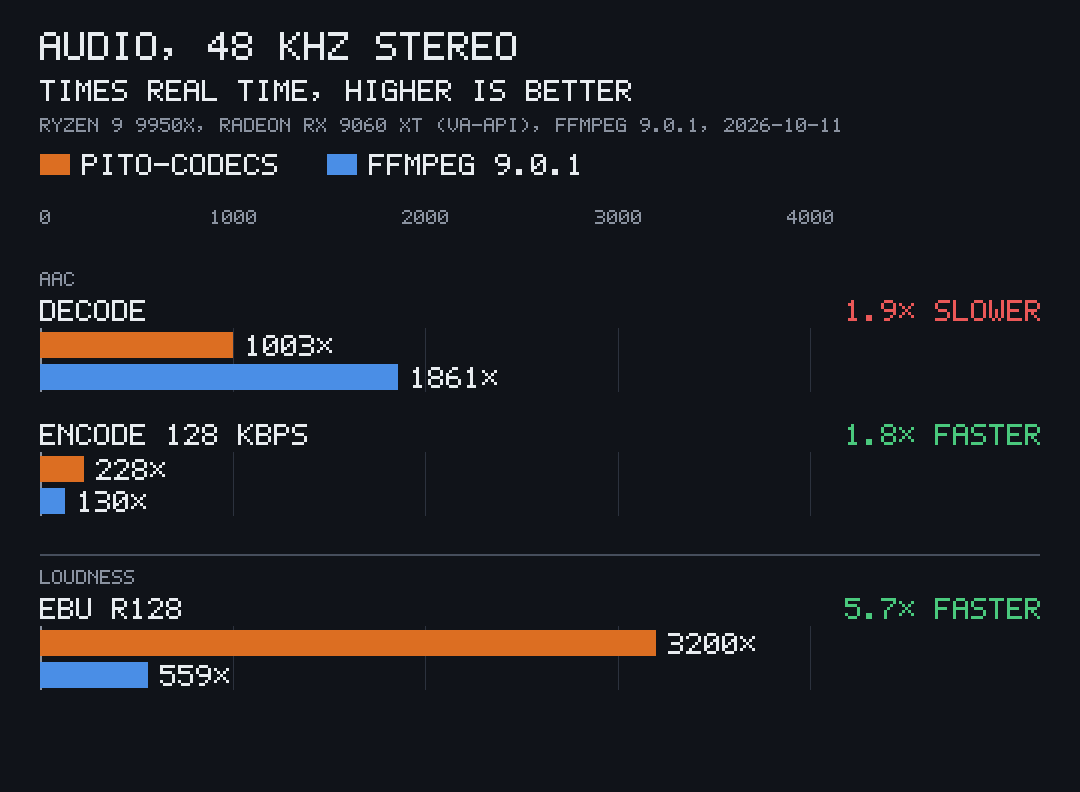
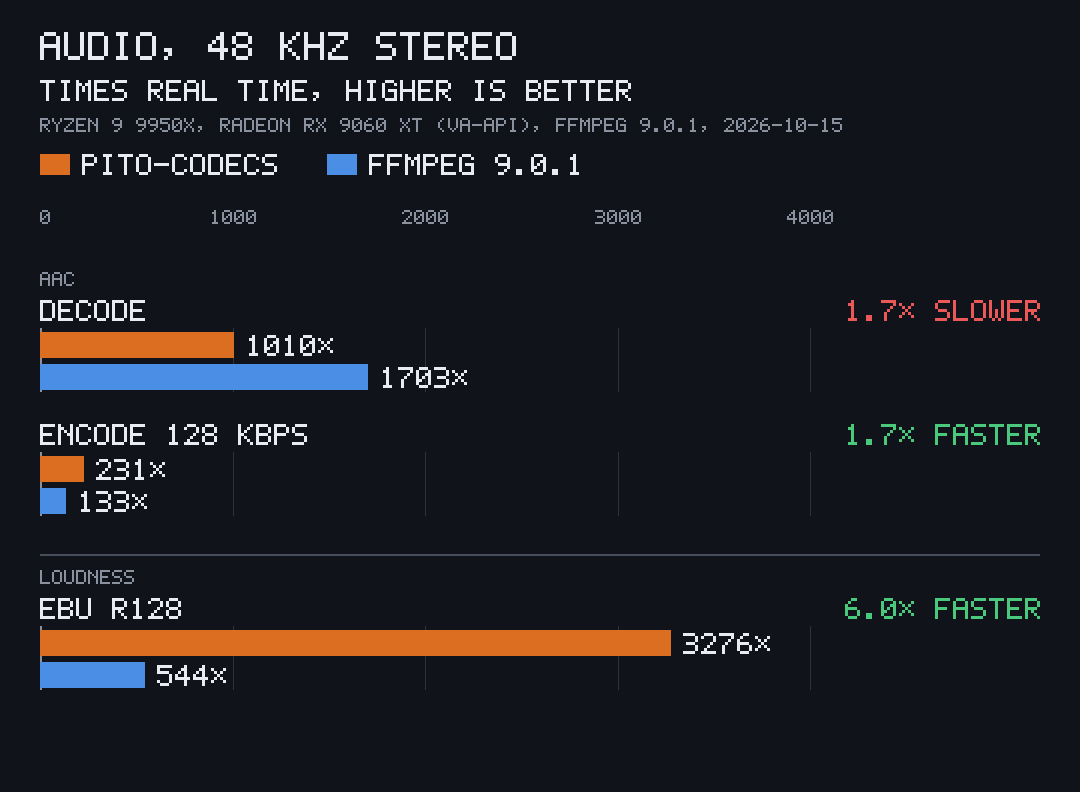
README: speed numbers from the 2026-10-15 run at 743f2d0

diff --git a/README.md b/README.md
@@ -6,10 +6,10 @@
 
 **Video and audio codecs in pure Rust, on the CPU and the GPU, with no ffmpeg inside.** H.264, H.265, VP9, AAC, AC-3, E-AC-3, Opus and MP3; MP4, MOV, MKV and WebM; GIF and WebP. One MIT Cargo package, a feature per part, two direct dependencies and no C linked.
 
-- **First frame 7× to 21× faster than ffmpeg:** 4.1 ms against 87.4 ms for a 1440p H.264 file on the CPU.
-- **Filmstrips 8× to 12× faster:** 12 stills at 240 px in 29 to 72 ms.
-- **Frame-accurate smart cuts 1.7× to 2.9× faster** than an ffmpeg re-encode: only the frames around each cut are encoded.
-- **GPU decode and encode on VA-API 1.1× to 1.3× faster** than ffmpeg's, and frames can stay on the card from decode to encode.
+- **First frame 12× to 28× faster than ffmpeg:** 4.2 ms against 85.2 ms for a 1440p H.264 file on the CPU.
+- **Filmstrips 9× to 11× faster:** 12 stills at 240 px in 24 to 36 ms.
+- **Frame-accurate smart cuts 1.7× to 2.0× faster** than an ffmpeg re-encode: only the frames around each cut are encoded.
+- **GPU decode and encode on VA-API 1.1× to 1.2× faster** than ffmpeg's, and frames can stay on the card from decode to encode.
 - **Overlays composed on the card:** a marked or captioned export uses 18× to 23× less CPU time than decoding and blending on the CPU.
 - **Small:** a 5.7 MB command line, and a library that pulls in 8 crates on Linux.
 
@@ -77,7 +77,7 @@ The GPU route needs nothing extra: libva is loaded at run time on Linux (Mesa's 
 
 ### Instant first frame
 
-Opening a file and showing its first picture takes 4.1 ms for 1440p H.264 on the CPU and 12.4 ms for HEVC on the GPU. That is 7.4× to 21.5× sooner than ffmpeg, whose time includes starting its process, which is what an app calling it pays.
+Opening a file and showing its first picture takes 4.2 ms for 1440p H.264 on the CPU and 3.2 ms for HEVC on the GPU. That is 12.1× to 28.2× sooner than ffmpeg, whose time includes starting its process, which is what an app calling it pays.
 
 ![Time to first frame at 1440p, pito-codecs against ffmpeg](docs/images/chart-first-frame.png)
 
@@ -97,23 +97,23 @@ H.264 (Baseline, Main and High), H.265 (Main and Main 10, tiles and WPP) and VP9
 
 ![GPU decode through VA-API, pito-codecs against ffmpeg](docs/images/chart-decode-gpu.png)
 
-On the CPU, ffmpeg's hand-written assembly still decodes H.264 1.3× to 1.5× faster; HEVC is level on one thread:
+On the CPU, ffmpeg's hand-written assembly still decodes H.264 1.3× to 1.5× faster; HEVC is level to 1.1× faster on one thread:
 
 ![CPU decode, pito-codecs against ffmpeg](docs/images/chart-decode-cpu.png)
 
 ### Encode and transcode on the GPU
 
-H.264 and H.265 encode through VA-API, VideoToolbox and NVENC, and a transcode keeps every frame on the GPU from decode to encode. Our VA-API encodes run 1.1× to 1.3× faster than ffmpeg's at the same settings.
+H.264 and H.265 encode through VA-API, VideoToolbox and NVENC, and a transcode keeps every frame on the GPU from decode to encode. Our VA-API encodes run 1.1× to 1.2× faster than ffmpeg's at the same settings.
 
 ![GPU encode and transcode through VA-API, pito-codecs against ffmpeg](docs/images/chart-encode-gpu.png)
 
-The CPU H.264 encoder (CABAC, B-frames, CRF, QP, CBR and VBR) has no hand-written SIMD, and libx264 is 1.5× to 3.4× faster. H.265 encodes on the GPU only, and without a GPU HEVC encoder the front falls back to H.264 and says why.
+The CPU H.264 encoder (CABAC, B-frames, CRF, QP, CBR and VBR) has no hand-written SIMD, and libx264 is 1.2× to 3.1× faster. H.265 encodes on the GPU only, and without a GPU HEVC encoder the front falls back to H.264 and says why.
 
 ![CPU H.264 encode against libx264](docs/images/chart-encode-cpu.png)
 
 ### Smart-cut export
 
-`export` and `export_with_audio` write an edit from pieces of one or more files. They copy the middle of each piece as it is and re-encode only the frames around each cut, so the result is frame-accurate and 1.7× to 2.9× faster than ffmpeg re-encoding every frame. ffmpeg's stream copy is faster still, but it encodes nothing and can only cut on keyframes.
+`export` and `export_with_audio` write an edit from pieces of one or more files. They copy the middle of each piece as it is and re-encode only the frames around each cut, so the result is frame-accurate and 1.7× to 2.0× faster than ffmpeg re-encoding every frame. ffmpeg's stream copy is faster still, but it encodes nothing and can only cut on keyframes.
 
 ![Smart-cut export in times real time](docs/images/chart-export.png)
 
@@ -152,7 +152,7 @@ GIF (Oklab palettes, ordered or Floyd-Steinberg dither, frame differencing) and 
 
 ### Scale and filters
 
-Scaling (bilinear, bicubic, Lanczos) runs 1.7× to 2.6× faster than ffmpeg's swscale on all threads. Colour (BT.601, 709 and 2020), rotate, flip, crop, pad, frame-rate change, overlays, resampling, downmix, gain, loudness and a limiter sit between decode and encode.
+Scaling (bilinear, bicubic, Lanczos) runs 1.6× to 2.1× faster than ffmpeg's swscale on all threads. Colour (BT.601, 709 and 2020), rotate, flip, crop, pad, frame-rate change, overlays, resampling, downmix, gain, loudness and a limiter sit between decode and encode.
 
 ![Scaling in frames per second, pito-codecs against ffmpeg](docs/images/chart-scale.png)
 
@@ -283,7 +283,7 @@ blender.draw(&mut frame, &watermark);
 
 ## How it was measured
 
-**Against ffmpeg** (the overview and the first-frame, filmstrip, decode, encode, export, scale and audio charts): one run of `examples/bench.rs` on 2026-10-11 at commit `415391d`, each job back to back with the system ffmpeg on the same file, on an AMD Ryzen 9 9950X (16 cores) and an AMD Radeon RX 9060 XT on Mesa 26.2 radeonsi through VA-API, Linux, ffmpeg 9.0.1. The input is 20 s of NASA's public-domain "A Message of Resilience from the International Space Station" (720p60), scaled to 1080p and 1440p and encoded with libx264 at CRF 20 and libx265 at CRF 23; the audio is NASA's public-domain solstice interview. The command is `pgpu run -- cargo run --release --example bench -- --runs 1`, which writes `tmp/bench/results.json`. The machine was shared with other work (load average 4.5 at the start, up to 18 during the run), so the absolute numbers are floors; 17 rows another GPU job disturbed were measured again right after with `--only` into the same file.
+**Against ffmpeg** (the overview and the first-frame, filmstrip, decode, encode, export, scale and audio charts): one run of `examples/bench.rs` on 2026-10-15 at commit `743f2d0`, each job back to back with the system ffmpeg on the same file, on an AMD Ryzen 9 9950X (16 cores) and an AMD Radeon RX 9060 XT on Mesa 26.2.2 radeonsi through VA-API, Linux, ffmpeg 9.0.1. The input is 20 s of NASA's public-domain "A Message of Resilience from the International Space Station" (720p60), scaled to 1080p and 1440p and encoded with libx264 at CRF 20 and libx265 at CRF 23; the audio is NASA's public-domain solstice interview. The command is `pgpu run --class bench --as pito-codecs -- target/release/examples/bench --runs 1`, built first with `cargo build --release --example bench`, and it writes `tmp/bench/results.json`. The card was the bench's alone and the load average was 1.4 at the start and 7.1 at the end, on 32 threads.
 
 **Today's additions** (the overlay charts, the VP9 cut, AC-3 and MP3) were each measured once, back to back against the baseline named, on the same machine while it was busy with other work, at the load given beside each; their absolute numbers are floors, and the ratios are same-run comparisons.
 
@@ -297,59 +297,59 @@ blender.draw(&mut frame, &watermark);
 The charts are drawn by [pito-compare](https://github.com/gmrdad82/pito-compare) from the data files in [docs/charts](docs/charts): `pcmp docs/charts/<name>.json`.
 
 <details>
-<summary>Every row of the 2026-10-11 run</summary>
+<summary>Every row of the 2026-10-15 run</summary>
 
 | Job | pito-codecs | ffmpeg | pito-codecs is |
 | --- | --- | --- | --- |
-| H.264 1080p decode, CPU, 1 thread | 376 fps | 558 fps | 1.5× slower |
-| H.264 1080p decode, CPU, all threads | 1959 fps | 2551 fps | 1.3× slower |
-| HEVC 1080p decode, CPU, 1 thread | 426 fps | 418 fps | about the same |
-| HEVC 1080p decode, CPU, all threads | 1479 fps | 1687 fps | 1.1× slower |
-| H.264 1440p decode, CPU, 1 thread | 195 fps | 286 fps | 1.5× slower |
-| H.264 1440p decode, CPU, all threads | 1089 fps | 1495 fps | 1.4× slower |
-| HEVC 1440p decode, CPU, 1 thread | 255 fps | 247 fps | about the same |
-| HEVC 1440p decode, CPU, all threads | 789 fps | 1231 fps | 1.6× slower |
-| H.264 1080p decode, VA-API, frames stay on the GPU | 1058 fps | 1023 fps | about the same |
-| H.264 1080p decode, VA-API, frames read back | 814 fps | 694 fps | 1.2× faster |
-| HEVC 1080p decode, VA-API, frames stay on the GPU | 1115 fps | 1068 fps | about the same |
-| HEVC 1080p decode, VA-API, frames read back | 795 fps | 677 fps | 1.2× faster |
-| H.264 1440p decode, VA-API, frames stay on the GPU | 1053 fps | 1011 fps | about the same |
-| H.264 1440p decode, VA-API, frames read back | 507 fps | 465 fps | 1.1× faster |
-| HEVC 1440p decode, VA-API, frames stay on the GPU | 1100 fps | 1049 fps | about the same |
-| HEVC 1440p decode, VA-API, frames read back | 471 fps | 428 fps | 1.1× faster |
-| H.264 1080p encode, CPU, CRF 23, against libx264 medium * | 191 fps | 328 fps | 1.7× slower |
-| H.264 1080p encode, CPU, CRF 23, against libx264 veryfast * | 184 fps | 626 fps | 3.4× slower |
-| H.264 1080p encode, VA-API, QP 23 | 645 fps | 499 fps | 1.3× faster |
-| HEVC 1080p encode, VA-API, QP 23 | 839 fps | 686 fps | 1.2× faster |
-| H.264 1440p encode, CPU, CRF 23, against libx264 medium * | 121 fps | 181 fps | 1.5× slower |
-| H.264 1440p encode, CPU, CRF 23, against libx264 veryfast * | 121 fps | 396 fps | 3.3× slower |
-| H.264 1440p encode, VA-API, QP 23 | 412 fps | 371 fps | 1.1× faster |
-| HEVC 1440p encode, VA-API, QP 23 | 545 fps | 476 fps | 1.1× faster |
-| H.264 1440p GPU transcode, frames stay on the GPU | 309 fps | 300 fps | about the same |
-| HEVC 1440p GPU transcode, frames stay on the GPU | 379 fps | 371 fps | about the same |
-| H.264 1440p time to first frame, CPU (ffmpeg includes starting its process) | 4.1 ms | 87.4 ms | 21.5× faster |
-| H.264 1440p time to first frame, GPU (ffmpeg includes starting its process) | 11.6 ms | 85.7 ms | 7.4× faster |
-| HEVC 1440p time to first frame, CPU (ffmpeg includes starting its process) | 8.1 ms | 106.3 ms | 13.1× faster |
-| HEVC 1440p time to first frame, GPU (ffmpeg includes starting its process) | 12.4 ms | 100.7 ms | 8.1× faster |
-| H.264 1080p filmstrip, 12 stills at 240 px, CPU | 414 stills/s | 46 stills/s | 8.9× faster |
-| H.264 1080p filmstrip, 12 stills at 240 px, GPU first | 407 stills/s | 47 stills/s | 8.7× faster |
-| H.264 1440p filmstrip, 12 stills at 240 px, CPU | 268 stills/s | 29 stills/s | 9.4× faster |
-| H.264 1440p filmstrip, 12 stills at 240 px, GPU first | 263 stills/s | 33 stills/s | 8.0× faster |
-| HEVC 1080p filmstrip, 12 stills at 240 px, CPU | 364 stills/s | 44 stills/s | 8.2× faster |
-| HEVC 1080p filmstrip, 12 stills at 240 px, GPU first | 359 stills/s | 32 stills/s | 11.4× faster |
-| HEVC 1440p filmstrip, 12 stills at 240 px, CPU | 257 stills/s | 21 stills/s | 12.4× faster |
-| HEVC 1440p filmstrip, 12 stills at 240 px, GPU first | 167 stills/s | 22 stills/s | 7.6× faster |
-| Smart-cut export 1080p, 3 cuts, against ffmpeg re-encoding every frame (both frame-accurate) † | 11.9× real time | 7.2× real time | 1.7× faster |
-| Smart-cut export 1080p, 3 cuts, against ffmpeg's stream copy (keyframe cuts only, not frame-accurate) † | 11.9× real time | 69.4× real time | 5.8× slower |
-| Smart-cut export 1440p, 3 cuts, against ffmpeg re-encoding every frame (both frame-accurate) † | 8.7× real time | 3.0× real time | 2.9× faster |
-| Smart-cut export 1440p, 3 cuts, against ffmpeg's stream copy (keyframe cuts only, not frame-accurate) † | 8.7× real time | 52.7× real time | 6.0× slower |
-| Scale 1440p to 1080p, bicubic | 2934 fps | 1430 fps | 2.1× faster |
-| Scale 1440p to 720p, bicubic | 2537 fps | 1221 fps | 2.1× faster |
-| Scale 1080p to 720p, bicubic | 4351 fps | 1695 fps | 2.6× faster |
-| Scale 1080p to 1440p, bicubic | 3459 fps | 2093 fps | 1.7× faster |
-| AAC decode, 48 kHz stereo | 1003× real time | 1861× real time | 1.9× slower |
-| AAC encode, 128 kbps stereo | 228× real time | 130× real time | 1.8× faster |
-| EBU R128 loudness, 48 kHz stereo | 3200× real time | 559× real time | 5.7× faster |
+| H.264 1080p decode, CPU, 1 thread | 384 fps | 586 fps | 1.5× slower |
+| H.264 1080p decode, CPU, all threads | 2018 fps | 2613 fps | 1.3× slower |
+| HEVC 1080p decode, CPU, 1 thread | 468 fps | 450 fps | about the same |
+| HEVC 1080p decode, CPU, all threads | 1653 fps | 1803 fps | 1.1× slower |
+| H.264 1440p decode, CPU, 1 thread | 221 fps | 332 fps | 1.5× slower |
+| H.264 1440p decode, CPU, all threads | 1230 fps | 1667 fps | 1.4× slower |
+| HEVC 1440p decode, CPU, 1 thread | 269 fps | 252 fps | 1.1× faster |
+| HEVC 1440p decode, CPU, all threads | 832 fps | 1294 fps | 1.6× slower |
+| H.264 1080p decode, VA-API, frames stay on the GPU | 1154 fps | 1116 fps | about the same |
+| H.264 1080p decode, VA-API, frames read back | 879 fps | 709 fps | 1.2× faster |
+| HEVC 1080p decode, VA-API, frames stay on the GPU | 1121 fps | 1081 fps | about the same |
+| HEVC 1080p decode, VA-API, frames read back | 806 fps | 684 fps | 1.2× faster |
+| H.264 1440p decode, VA-API, frames stay on the GPU | 1082 fps | 1036 fps | about the same |
+| H.264 1440p decode, VA-API, frames read back | 539 fps | 478 fps | 1.1× faster |
+| HEVC 1440p decode, VA-API, frames stay on the GPU | 1054 fps | 1068 fps | about the same |
+| HEVC 1440p decode, VA-API, frames read back | 477 fps | 435 fps | 1.1× faster |
+| H.264 1080p encode, CPU, CRF 23, against libx264 medium * | 212 fps | 354 fps | 1.7× slower |
+| H.264 1080p encode, CPU, CRF 23, against libx264 veryfast * | 215 fps | 664 fps | 3.1× slower |
+| H.264 1080p encode, VA-API, QP 23 | 648 fps | 560 fps | 1.2× faster |
+| HEVC 1080p encode, VA-API, QP 23 | 836 fps | 702 fps | 1.2× faster |
+| H.264 1440p encode, CPU, CRF 23, against libx264 medium * | 137 fps | 167 fps | 1.2× slower |
+| H.264 1440p encode, CPU, CRF 23, against libx264 veryfast * | 139 fps | 292 fps | 2.1× slower |
+| H.264 1440p encode, VA-API, QP 23 | 411 fps | 369 fps | 1.1× faster |
+| HEVC 1440p encode, VA-API, QP 23 | 548 fps | 480 fps | 1.1× faster |
+| H.264 1440p GPU transcode, frames stay on the GPU | 314 fps | 303 fps | about the same |
+| HEVC 1440p GPU transcode, frames stay on the GPU | 385 fps | 374 fps | about the same |
+| H.264 1440p time to first frame, CPU (ffmpeg includes starting its process) | 4.2 ms | 85.2 ms | 20.2× faster |
+| H.264 1440p time to first frame, GPU (ffmpeg includes starting its process) | 3.5 ms | 87.4 ms | 24.9× faster |
+| HEVC 1440p time to first frame, CPU (ffmpeg includes starting its process) | 7.4 ms | 88.9 ms | 12.1× faster |
+| HEVC 1440p time to first frame, GPU (ffmpeg includes starting its process) | 3.2 ms | 88.9 ms | 28.2× faster |
+| H.264 1080p filmstrip, 12 stills at 240 px, CPU | 510 stills/s | 57 stills/s | 9.0× faster |
+| H.264 1080p filmstrip, 12 stills at 240 px, GPU first | 507 stills/s | 57 stills/s | 8.9× faster |
+| H.264 1440p filmstrip, 12 stills at 240 px, CPU | 332 stills/s | 39 stills/s | 8.5× faster |
+| H.264 1440p filmstrip, 12 stills at 240 px, GPU first | 340 stills/s | 39 stills/s | 8.7× faster |
+| HEVC 1080p filmstrip, 12 stills at 240 px, CPU | 486 stills/s | 51 stills/s | 9.5× faster |
+| HEVC 1080p filmstrip, 12 stills at 240 px, GPU first | 470 stills/s | 50 stills/s | 9.4× faster |
+| HEVC 1440p filmstrip, 12 stills at 240 px, CPU | 360 stills/s | 33 stills/s | 10.9× faster |
+| HEVC 1440p filmstrip, 12 stills at 240 px, GPU first | 369 stills/s | 33 stills/s | 11.1× faster |
+| Smart-cut export 1080p, 3 cuts, against ffmpeg re-encoding every frame (both frame-accurate) † | 16.5× real time | 9.9× real time | 1.7× faster |
+| Smart-cut export 1080p, 3 cuts, against ffmpeg's stream copy (keyframe cuts only, not frame-accurate) † | 16.5× real time | 78.6× real time | 4.8× slower |
+| Smart-cut export 1440p, 3 cuts, against ffmpeg re-encoding every frame (both frame-accurate) † | 11.1× real time | 5.7× real time | 2.0× faster |
+| Smart-cut export 1440p, 3 cuts, against ffmpeg's stream copy (keyframe cuts only, not frame-accurate) † | 11.1× real time | 67.4× real time | 6.1× slower |
+| Scale 1440p to 1080p, bicubic | 3429 fps | 1870 fps | 1.8× faster |
+| Scale 1440p to 720p, bicubic | 3907 fps | 2121 fps | 1.8× faster |
+| Scale 1080p to 720p, bicubic | 5489 fps | 2624 fps | 2.1× faster |
+| Scale 1080p to 1440p, bicubic | 4124 fps | 2547 fps | 1.6× faster |
+| AAC decode, 48 kHz stereo | 1010× real time | 1703× real time | 1.7× slower |
+| AAC encode, 128 kbps stereo | 231× real time | 133× real time | 1.7× faster |
+| EBU R128 loudness, 48 kHz stereo | 3276× real time | 544× real time | 6.0× faster |
 
 \* libx264 is hand-written assembly; our CPU H.264 encoder has no hand-written SIMD. † Our export copies the middle of each piece and re-encodes only around each cut, so it is frame-accurate; a stream copy encodes nothing and cuts only on keyframes.
 
